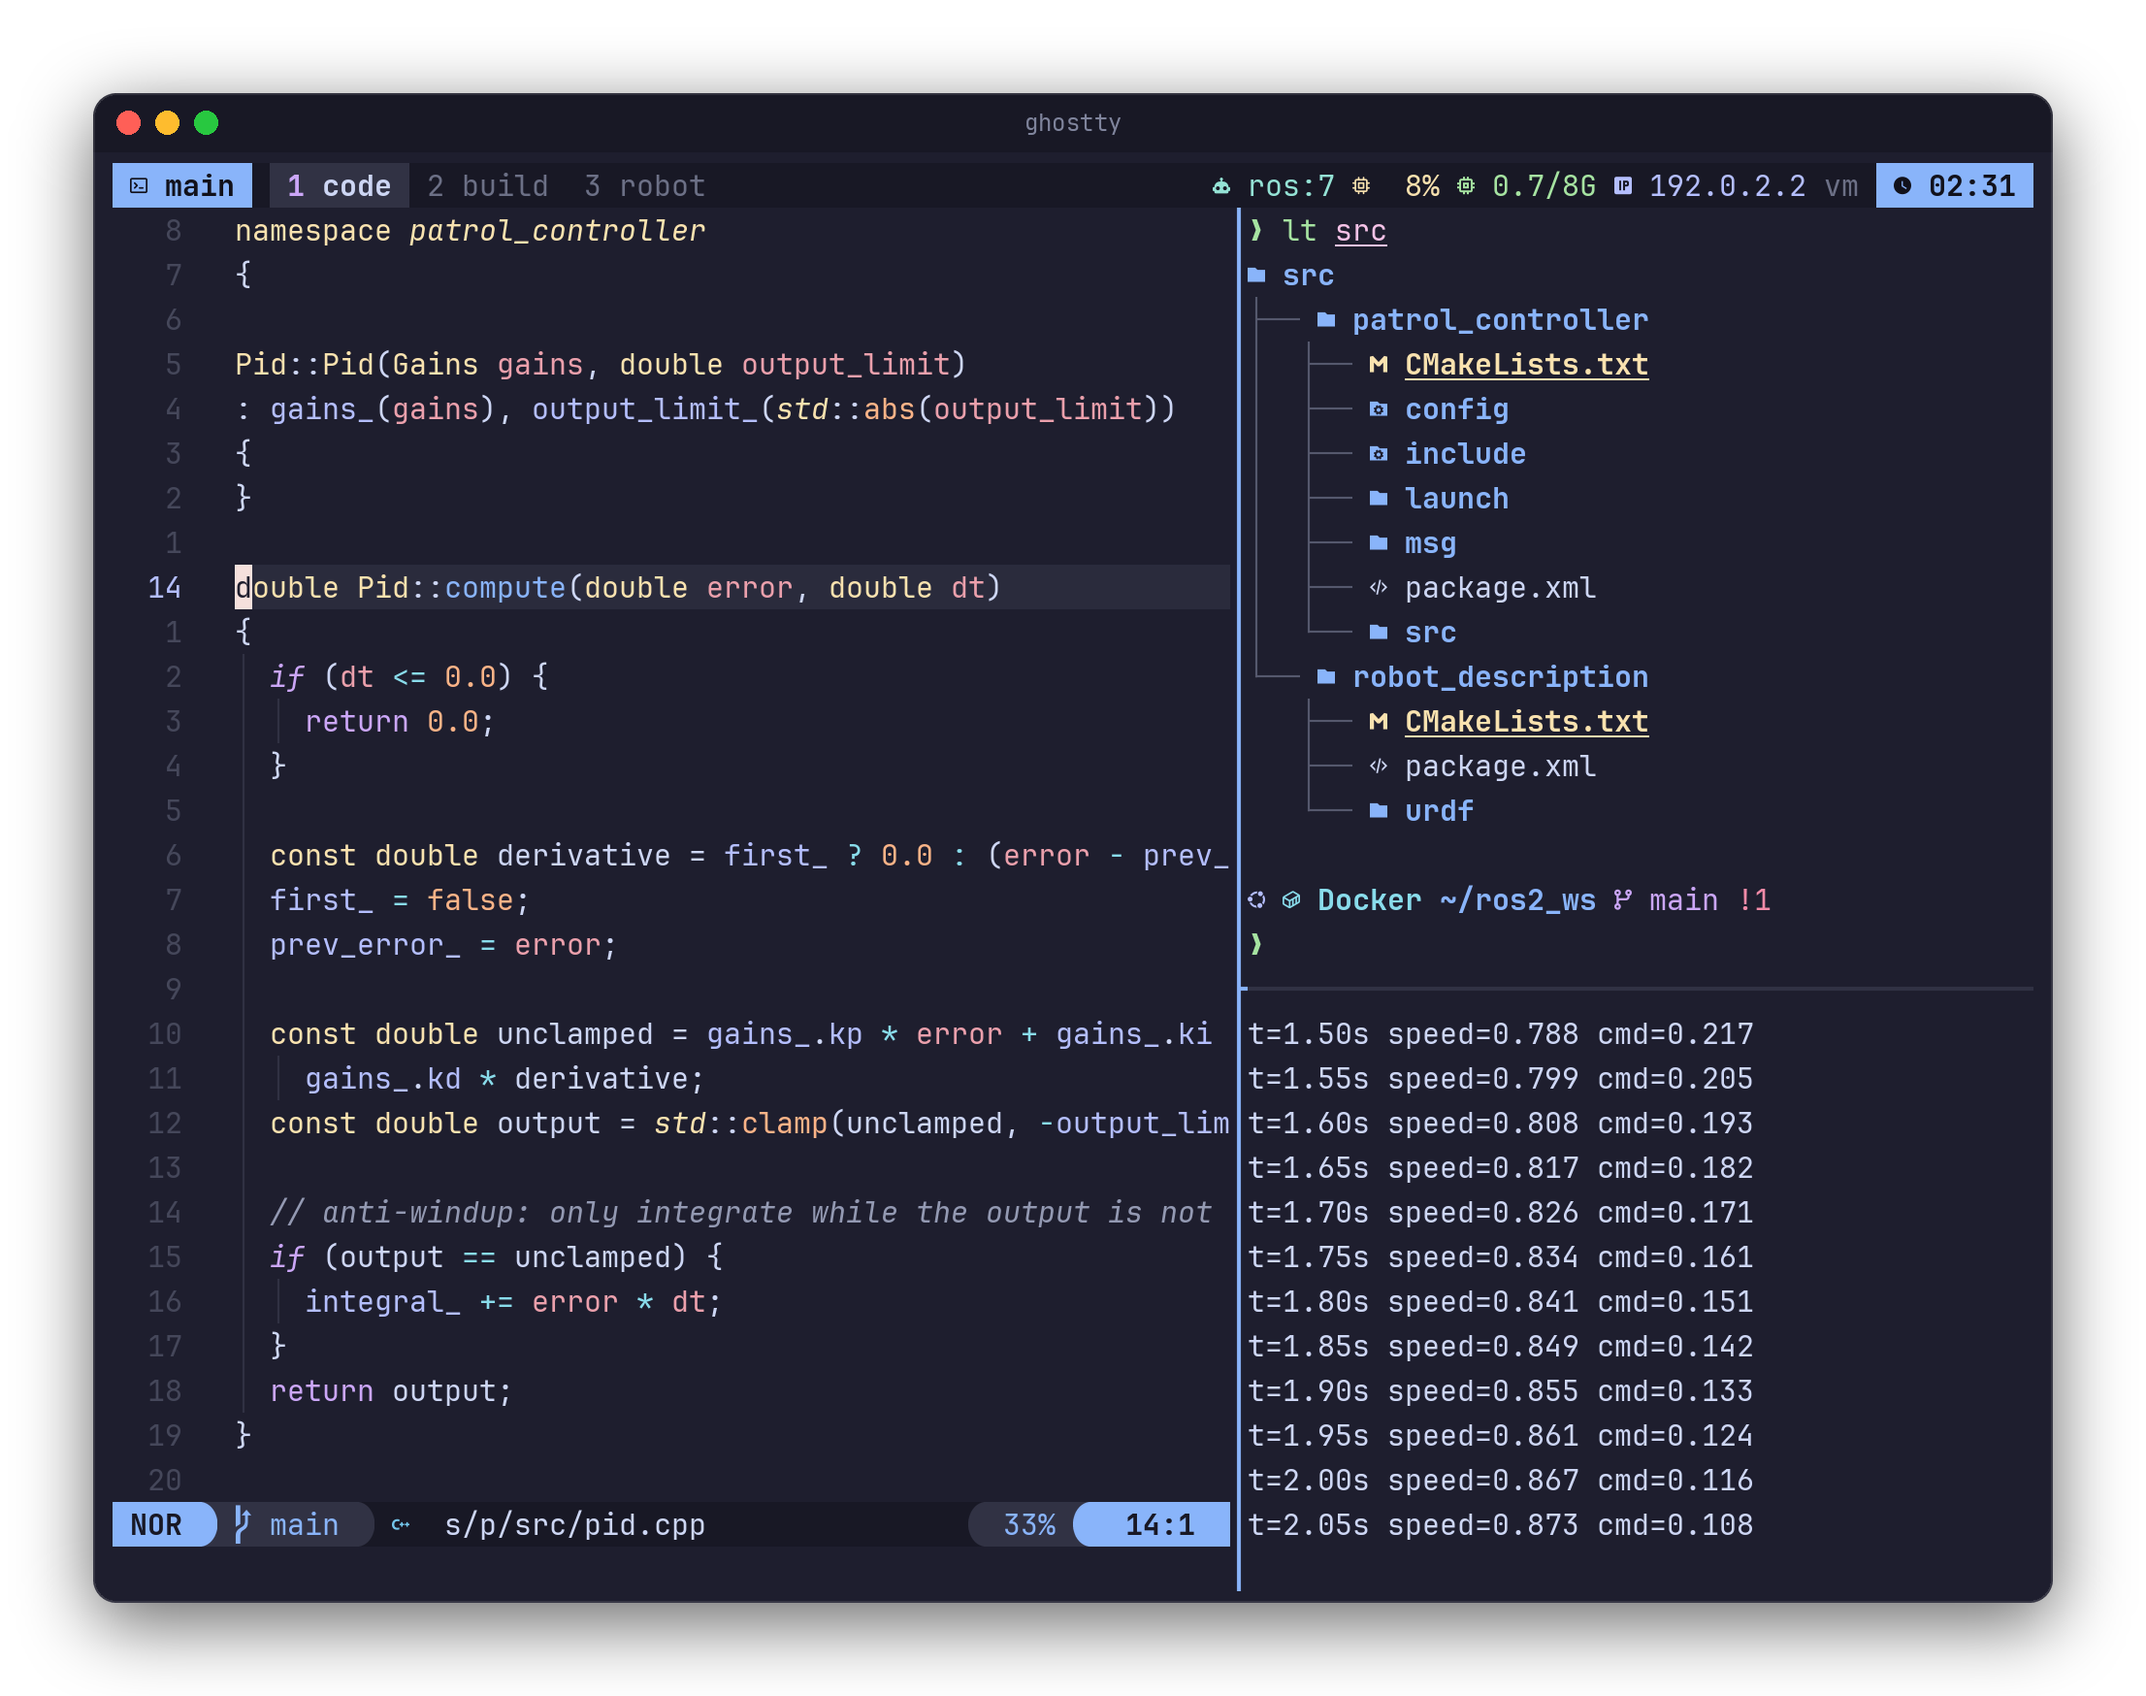
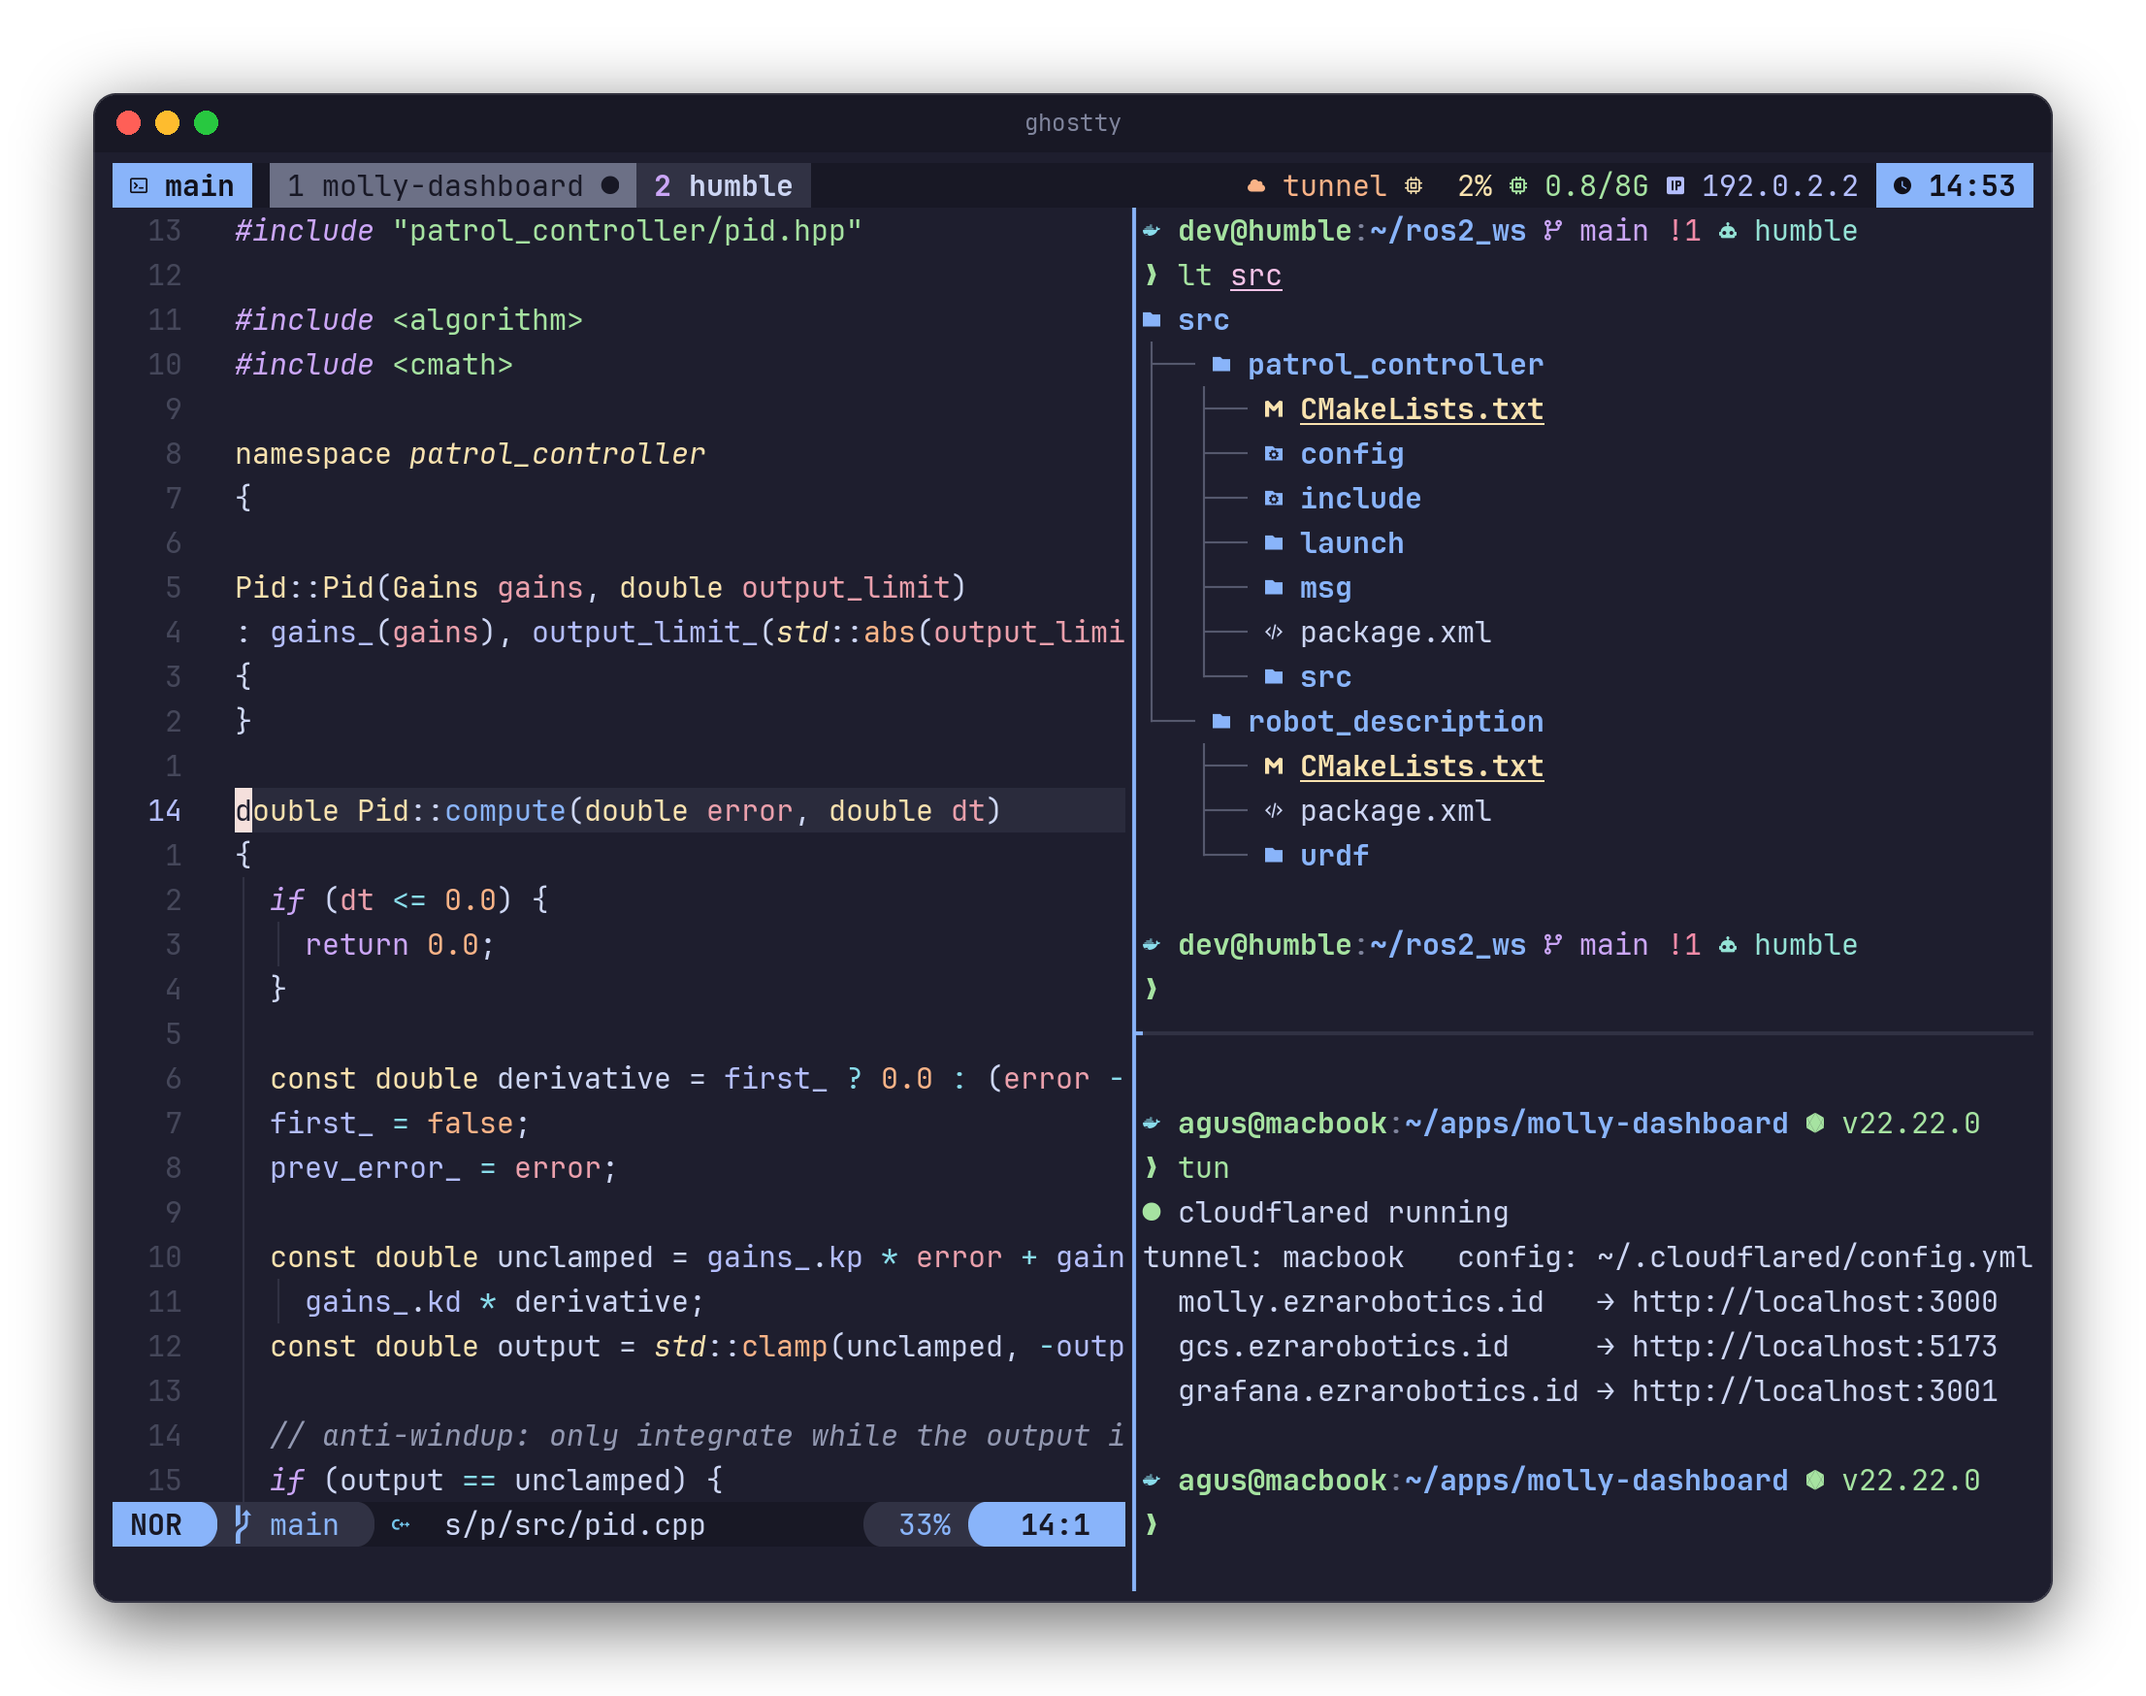
docs(assets): re-record the demos for the Mac + container workflow

diff --git a/README.md b/README.md
@@ -20,7 +20,7 @@ work. The same config runs inside Docker dev containers and on robots over SSH.*
 [Install](#install) · [Features](#features) · [Keys](#keys) · [Documentation](#documentation) ·
 [Develop](#develop)
 
-<img src="assets/demo.gif" alt="tmux and Neovim: file picker, LSP hover, which-key, explorer, lazygit and the SSH picker" width="100%">
+<img src="assets/demo.gif" alt="app launcher, Cloudflare Tunnel status, SSH picker into a ROS 2 container, build and Neovim there" width="100%">
 
 </div>
 
@@ -56,7 +56,7 @@ Inside a dev container, a Jetson or a robot: `~/dotfiles/container/install.sh`
 - `dev <host>` opens a session on a container or robot over SSH (windows code, build, run).
   `F12` hands every key to a tmux running on the robot.
 
-<img src="assets/tmux.png" alt="tmux with Neovim, a file tree and a running node" width="100%">
+<img src="assets/tmux.png" alt="tmux: a web app window and a container window with Neovim, a file tree and the tunnel routes" width="100%">
 
 **Neovim**
 - Own modular config, every language in one registry file: LSP, formatter, linter and parser.
@@ -64,7 +64,7 @@ Inside a dev container, a Jetson or a robot: `~/dotfiles/container/install.sh`
   Dart, Docker, Bash, Lua, Markdown.
 - 20 plugins: blink.cmp completion, snacks.nvim pickers and explorer, which-key, gitsigns, lazygit.
 
-<img src="assets/nvim.png" alt="clangd completion in Neovim" width="100%">
+<img src="assets/nvim.png" alt="clangd completion in Neovim inside a container" width="100%">
 
 **ROS 2**
 - `Space rb` builds the package you are editing with colcon: errors land in the quickfix list,
@@ -74,7 +74,7 @@ Inside a dev container, a Jetson or a robot: `~/dotfiles/container/install.sh`
 - Shell helpers inside containers and on robots (never on the Mac), for ROS 2 (colcon) and ROS 1 (catkin):
   `ros`, `rosdomain`/`rosmaster`, `cb`/`cbp`/`ct`, `rtopic`, `rnode`.
 
-<img src="assets/ros-build.gif" alt="colcon build from Neovim: error in quickfix, fix, rebuild" width="100%">
+<img src="assets/ros-build.gif" alt="colcon build from Neovim in a container: error in quickfix, fix, rebuild" width="100%">
 
 **Containers and robots**
 - `dsh` / `C-a d` opens the best shell in any running container; `dev <host>` opens a full session in it over SSH.
